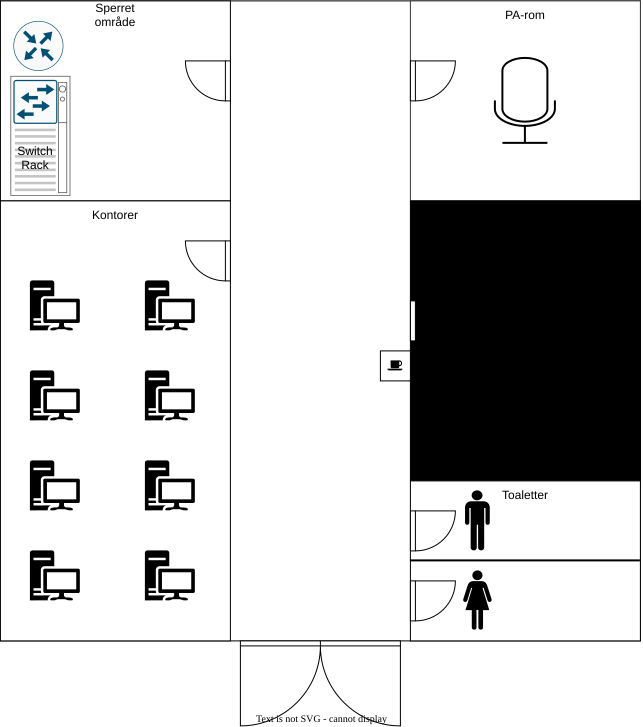
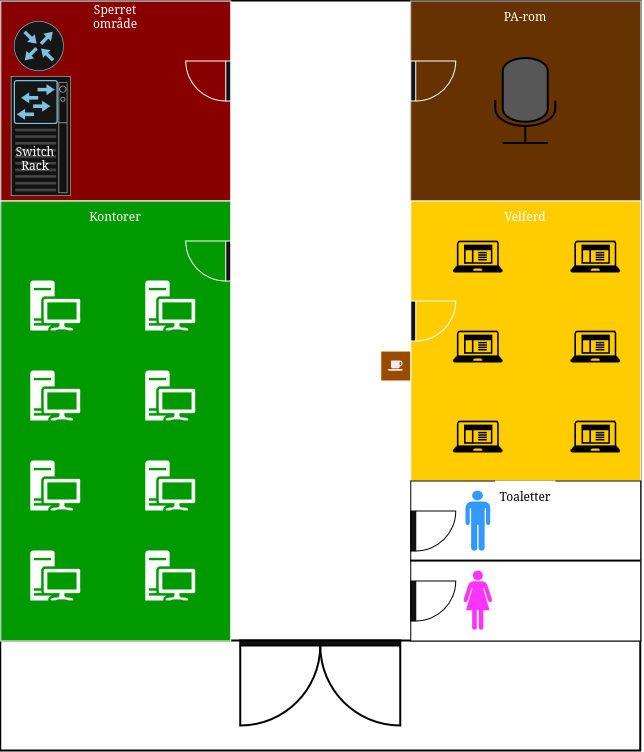
Added colors to png and added figure in report

diff --git a/RAPPORT/rapport/sections/design.tex b/RAPPORT/rapport/sections/design.tex
@@ -528,4 +528,10 @@ K7 kan ikke løses med nettverkskonfigurasjon alene. Ubrukte uttak bør deaktive
 
 Før overlevering må ansvar for brukerforvaltning, varsler, oppdateringer og hendelseshåndtering være avklart og inngå i driftsdokumentasjonen (F5). De operative og ressursmessige konsekvensene av disse tiltakene drøftes videre i diskusjonskapitlet.
 
+\begin{figure}[H]
+\centering
+\includegraphics[width=0.5 \textwidth]{../Media/floorplan.png}
+\caption{Anbefalt romfordeling}
+\label{fig:floorplan}
+\end{figure}
 \endgroup
